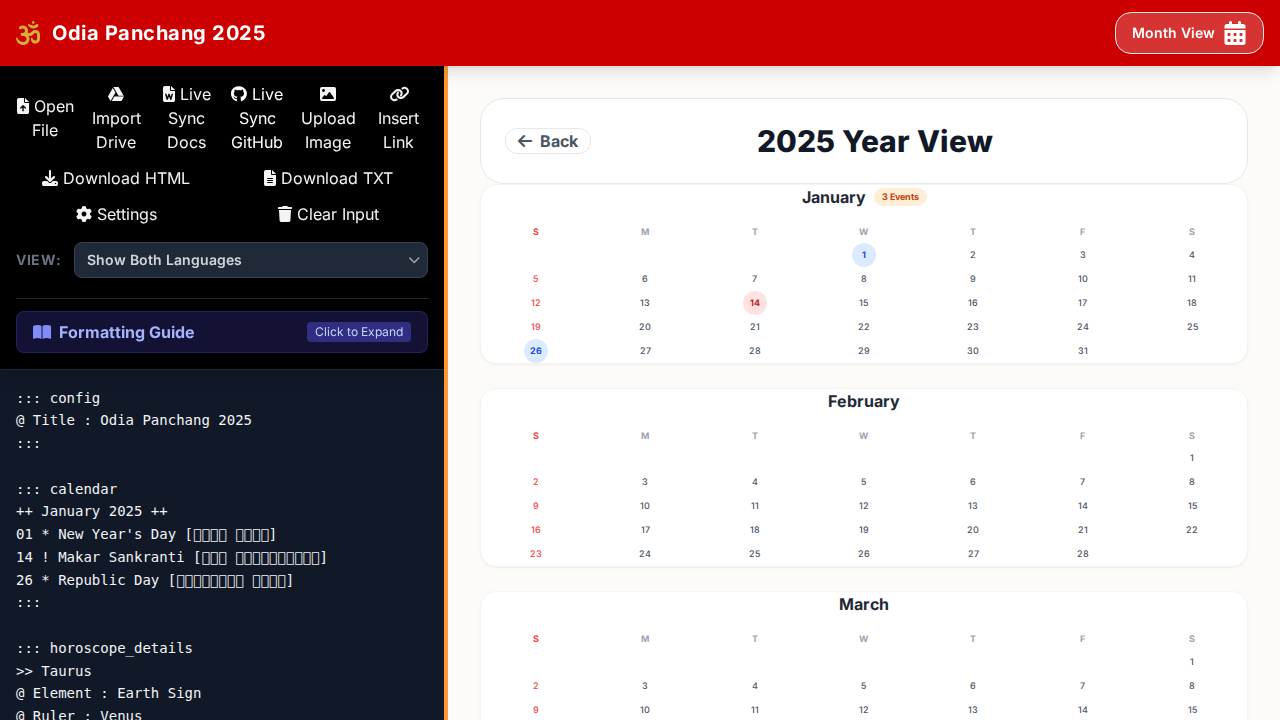
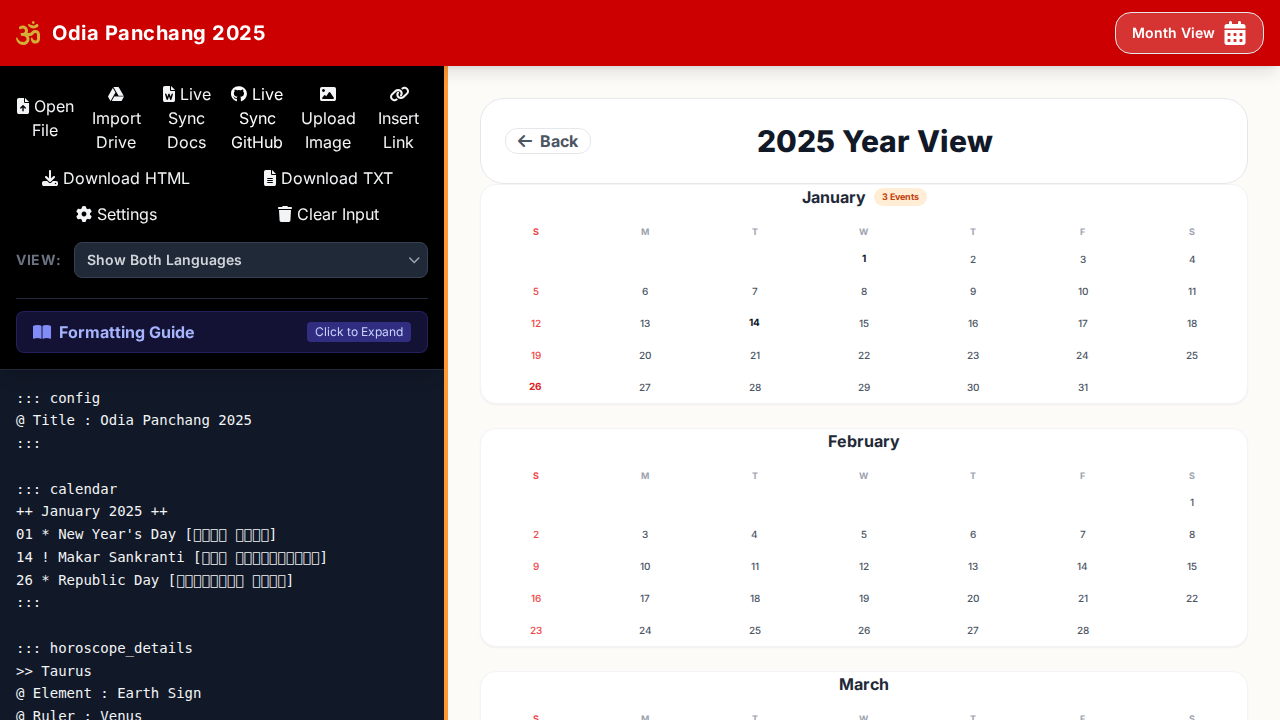
Replace Year View event circles with dots below dates

diff --git a/ai tex to calnder.html b/ai tex to calnder.html
@@ -3120,24 +3120,38 @@ The word "Nua" means new and "Khai" means food.
                     const isSunday = new Date(year, m, d).getDay() === 0;
                     const isToday = (m === today.getMonth() && year === today.getFullYear() && d === today.getDate());
 
-                    let bgClass = "text-gray-600 font-medium hover:bg-gray-50 rounded-full"; // Default
-                    if (isSunday) bgClass = "text-red-500 font-medium hover:bg-gray-50 rounded-full";
+                    let containerClass = "w-7 h-8 flex flex-col items-center justify-center mx-auto transition-transform cursor-pointer rounded-lg hover:bg-gray-50";
+                    let textClass = isSunday ? "text-red-500 font-medium" : "text-gray-600 font-medium";
+                    let dotHtml = '';
 
                     if (monthData) {
                         const ev = monthData.events.find(e => e.date === d);
                         if (ev) {
-                            if (ev.symbol === '!') bgClass = "bg-red-100 text-red-700 font-bold rounded-full";
-                            else if (ev.symbol === '^') bgClass = "bg-green-100 text-green-700 font-bold rounded-full";
-                            else if (ev.symbol === '*') bgClass = "bg-blue-100 text-blue-700 font-bold rounded-full";
+                            // Event: Bold text + Colored Dot
+                            textClass = isSunday ? "text-red-600 font-bold" : "text-gray-900 font-bold";
+
+                            let dotColor = "bg-gray-400";
+                            if (ev.symbol === '!') dotColor = "bg-red-500";
+                            else if (ev.symbol === '^') dotColor = "bg-green-500";
+                            else if (ev.symbol === '*') dotColor = "bg-blue-500";
+
+                            dotHtml = `<div class="w-1 h-1 rounded-full ${dotColor} mt-0.5"></div>`;
                         }
                     }
 
                     if (isToday) {
-                        // Today Override
-                        bgClass = "bg-orange-500 text-white font-bold rounded-full transform scale-110 shadow-sm";
+                        // Today Override: Solid Orange Circle, No Dot (or White Dot?)
+                        // Screenshot implies solid circle. We'll stick to that.
+                        containerClass = "w-7 h-7 flex items-center justify-center mx-auto bg-orange-500 rounded-full shadow-md transform scale-105";
+                        textClass = "text-white font-bold";
+                        dotHtml = ''; // Hide dot for today to keep it clean
                     }
 
-                    daysContainer.innerHTML += `<div class="w-6 h-6 flex items-center justify-center text-[9px] mx-auto transition-transform ${bgClass}">${d}</div>`;
+                    daysContainer.innerHTML += `
+                        <div class="${containerClass}">
+                            <span class="text-[10px] leading-none ${textClass}">${d}</span>
+                            ${dotHtml}
+                        </div>`;
                 }
                 
                 card.appendChild(daysContainer);
